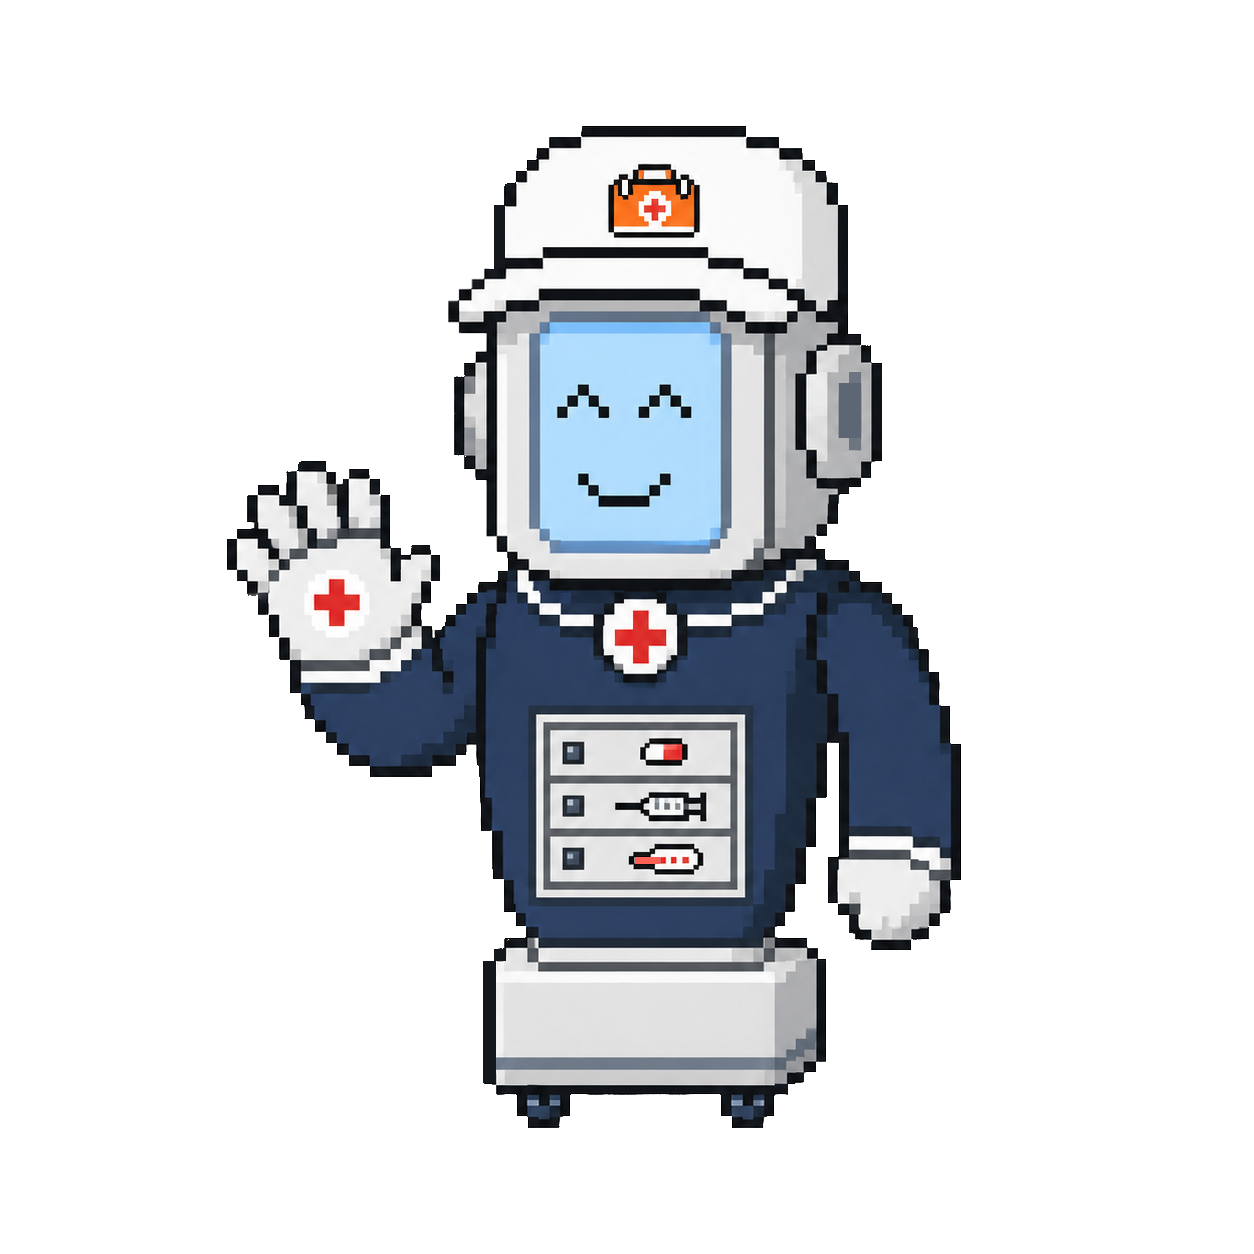
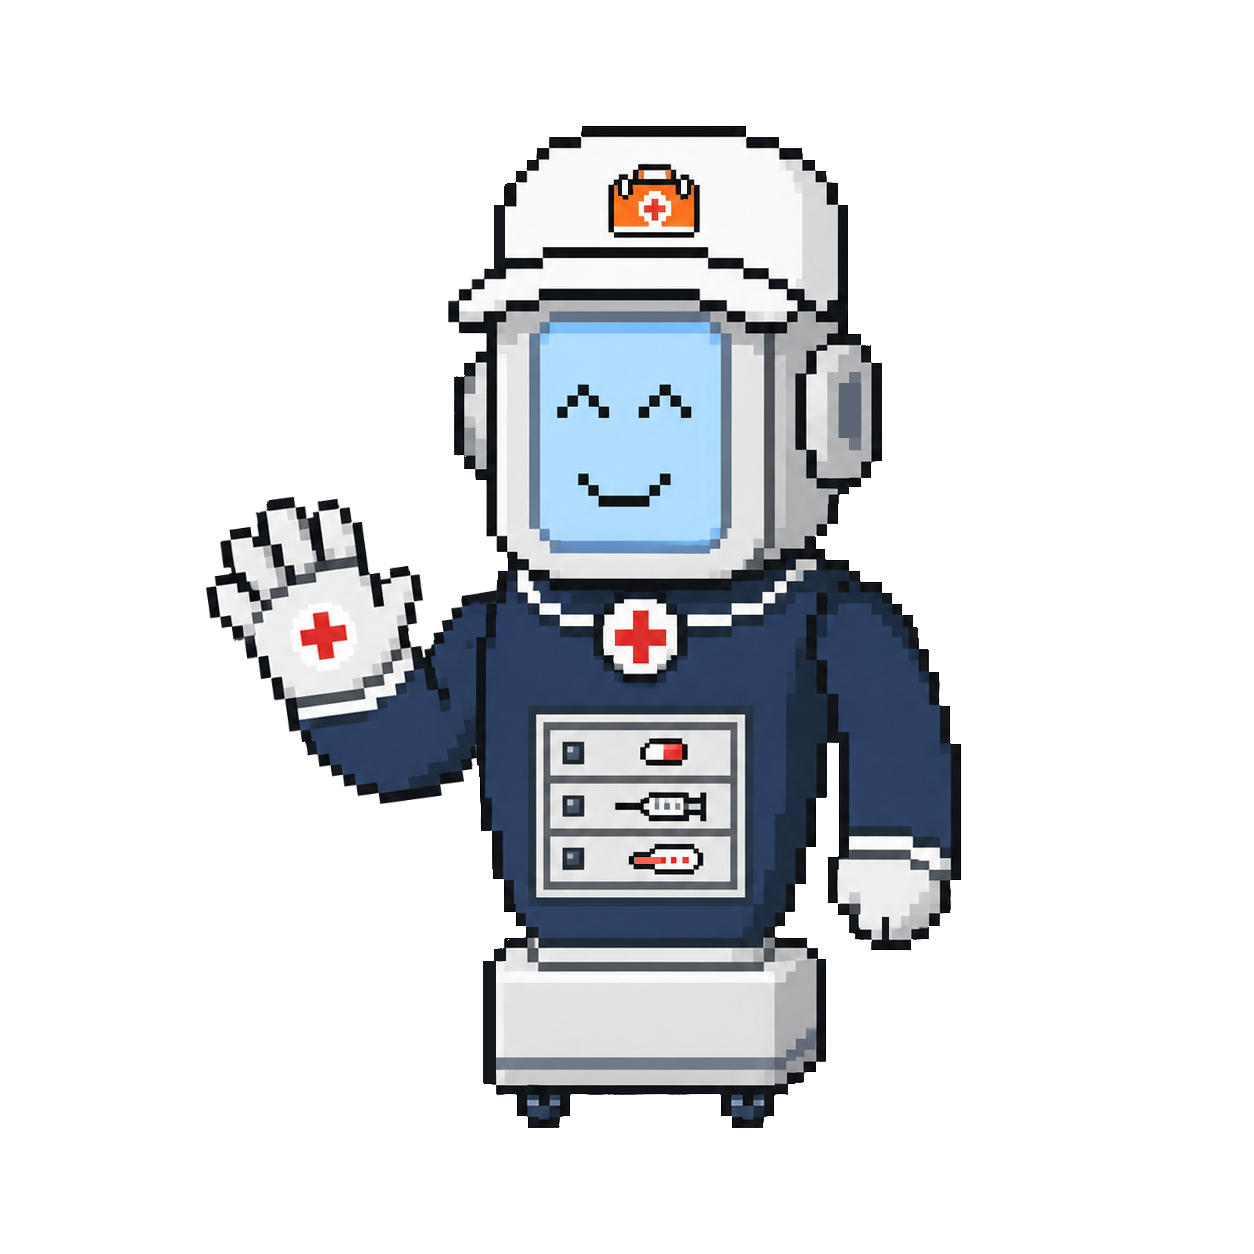
Added Elie gif, removed some old photos from template, and put Eddy as the front robot

Changed region(s): [[0.1555, 0.3732, 0.4043, 0.6531]]

diff --git a/index.html b/index.html
@@ -195,7 +195,7 @@ layout: default
     <p class="track-selector-instruction">Drag or swipe to a robot to view its track</p>
 
     <div class="track-selector-stage">
-      <div class="track-selector-name" data-track-selector-name aria-live="polite">ELIE</div>
+      <div class="track-selector-name" data-track-selector-name aria-live="polite">EDDY</div>
 
       <div class="track-selector-wheel" data-track-selector-wheel>
         {% for track in site.event.tracks %}
@@ -222,33 +222,33 @@ layout: default
             class="track-selector-character"
             type="button"
             data-track-index="{{ forloop.index0 }}"
-            data-track-position="{% if forloop.first %}active{% elsif forloop.index == 2 %}right{% else %}left{% endif %}"
+            data-track-position="{% if forloop.index == 3 %}active{% elsif forloop.index == 1 %}right{% else %}left{% endif %}"
             data-track-name="{{ track_mascot_name | upcase }}"
             data-track-title="{{ track.title | escape }}"
             data-track-description="{{ track.description | escape }}"
             data-track-icon="{{ track_icon | relative_url }}"
             data-track-icon-alt="{{ track_icon_alt }}"
             data-track-still-src="{{ track_mascot | relative_url }}"
-            {% if forloop.index == 3 %}data-track-selected-src="{{ '/images/gifs/eddy_waving.gif' | relative_url }}"{% endif %}
+            {% if forloop.index == 1 %}data-track-selected-src="{{ '/images/gifs/elie_waving.gif' | relative_url }}"{% elsif forloop.index == 3 %}data-track-selected-src="{{ '/images/gifs/eddy_waving.gif' | relative_url }}"{% endif %}
             aria-label="Select {{ track_mascot_name }}, {{ track.title }}"
-            aria-pressed="{% if forloop.first %}true{% else %}false{% endif %}">
-            <img src="{{ track_mascot | relative_url }}" alt="{{ track_mascot_alt }}">
+            aria-pressed="{% if forloop.index == 3 %}true{% else %}false{% endif %}">
+            <img src="{% if forloop.index == 3 %}{{ '/images/gifs/eddy_waving.gif' | relative_url }}{% else %}{{ track_mascot | relative_url }}{% endif %}" alt="{{ track_mascot_alt }}">
           </button>
         {% endfor %}
       </div>
 
       <div class="track-selector-dots" aria-label="Choose a track">
         {% for track in site.event.tracks %}
-          <button class="track-selector-dot" type="button" data-track-index="{{ forloop.index0 }}" aria-label="{{ track.title }}" aria-pressed="{% if forloop.first %}true{% else %}false{% endif %}"></button>
+          <button class="track-selector-dot" type="button" data-track-index="{{ forloop.index0 }}" aria-label="{{ track.title }}" aria-pressed="{% if forloop.index == 3 %}true{% else %}false{% endif %}"></button>
         {% endfor %}
       </div>
 
-      <article class="track-selector-info track-selector-info-0" data-track-selector-info aria-live="polite">
+      <article class="track-selector-info track-selector-info-2" data-track-selector-info aria-live="polite">
         <div class="track-selector-info-title">
-          <span class="track-selector-info-icon"><img src="{{ '/images/icons/first_aid.png' | relative_url }}" alt="Healthcare track icon"></span>
-          <h3>{{ site.event.tracks[0].title }}</h3>
+          <span class="track-selector-info-icon"><img src="{{ '/images/icons/lightbulb.svg' | relative_url }}" alt="Creativity track icon"></span>
+          <h3>{{ site.event.tracks[2].title }}</h3>
         </div>
-        <p>{{ site.event.tracks[0].description }}</p>
+        <p>{{ site.event.tracks[2].description }}</p>
       </article>
     </div>
   </section>

diff --git a/js/makecu.js b/js/makecu.js
@@ -322,8 +322,8 @@
       };
     });
     var trackStepAngle = 120;
-    var trackRotation = 0;
-    var activeTrack = 0;
+    var trackRotation = 120;
+    var activeTrack = 2;
     var trackPanelTimer = null;
     var trackAnimationFrame = null;
     var trackDragging = false;
